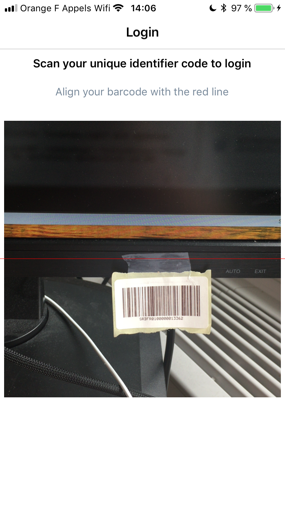
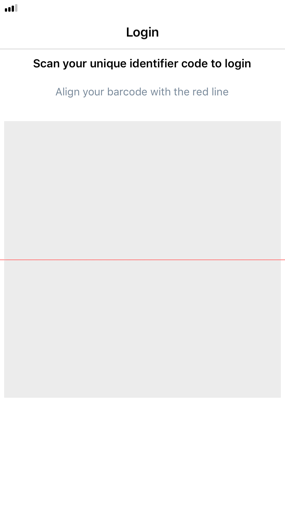
remove old pictures and add template pics

diff --git a/source/includes/inventory/login.md b/source/includes/inventory/login.md
@@ -1,7 +1,6 @@
 # Authentication
 
-
-In order to authentify yourself on the application, you need to visit this [website](https://google.fr). This generates a QRCode that contains a token that expires after 24 hours.
+In order to authentify yourself on the application, you need to visit this [website](https://google.fr). It will generate a QRCode that contains a token set to expire after 24 hours.
 
 <aside class="notice">
   You can only login with a QRCode
